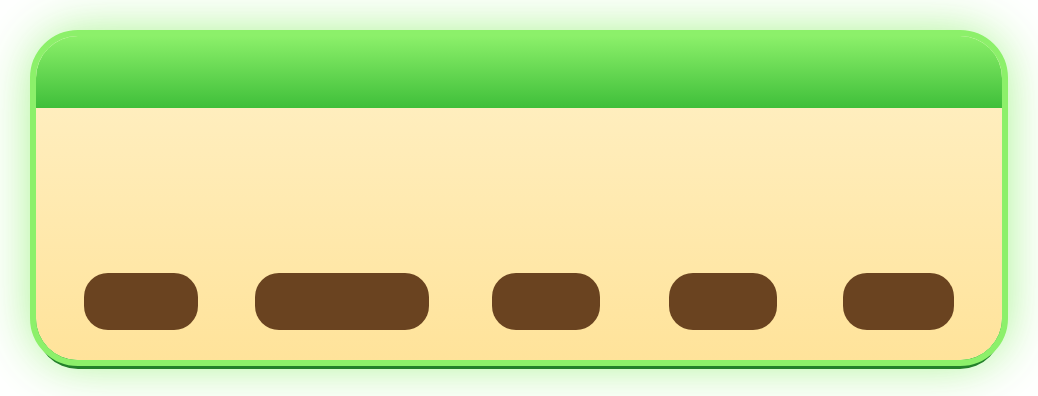
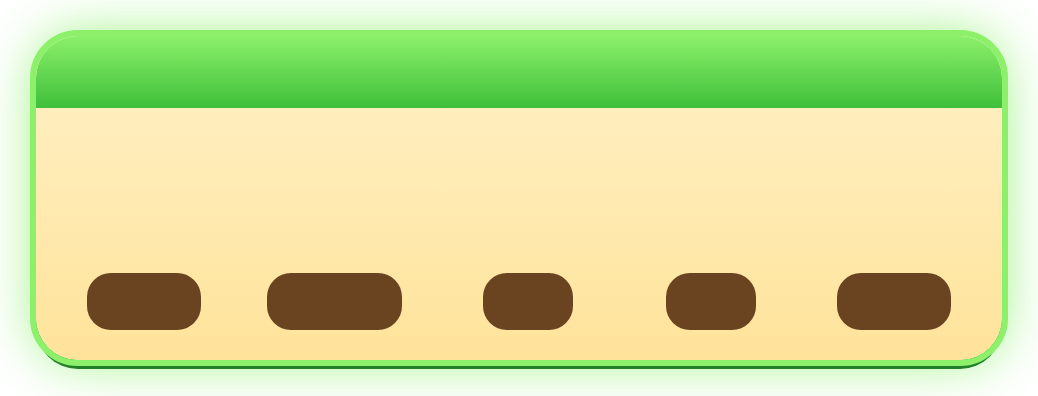
Tägliche Belohnung an die Wirtschaft angepasst, Version 0.6.1
Eine volle Woche bringt so viel Gold und Edelsteine wie die frühere
feste Tagesbelohnung (1.050 Gold, 70 Edelsteine mit Treue-Truhe), mit
Höhepunkt an Tag 7; Energie und Heldenkarten als kleiner Zusatz.
Mockup und Tageskarten mit den neuen Mengen neu übernommen.

Claude-Session: https://claude.ai/code/session_01NwX5XbY2Qvumx1eymUyNiA

diff --git a/tools/mock2game/cfg/taeglich.js b/tools/mock2game/cfg/taeglich.js
@@ -13,7 +13,7 @@ window.tbPrep = function (mode) {
   const todayT = kids.find(k => k.textContent.includes('HEUTE'));
   if (mode !== 'main' && lockedT && todayT) {
     const srcIcon = [kids[4], kids[5], todayT, kids[3], kids[4], kids[5]].map(iconOf);
-    const amounts = ['×300', '×10', '×20', '×6', '×1.000', '×20'];
+    const amounts = ['×150', '×5', '×10', '×5', '×300', '×10'];
     for (let i = 0; i < 6; i++) {
       const tpl = (mode === 'locked' ? lockedT : todayT).cloneNode(true);
       const ic = iconOf(tpl); if (ic && srcIcon[i]) ic.replaceWith(srcIcon[i].cloneNode(true));

diff --git a/scripts/economy-sim.py b/scripts/economy-sim.py
@@ -27,7 +27,7 @@ TECH = [100, 200, 350, 550, 800, 1100, 1500, 2000, 2600, 3300]
 AMMO = {"rate": (10, 80), "cap": (10, 60), "start": (10, 50), "lever": (5, 150), "count": (3, 500), "gate": (2, 1200)}
 BOOSTER_COST = lambda lvl: 200 * lvl
 BOOSTER_MAX = 5
-DAILY_GOLD = 150 + 100               # tägliche Belohnung + Gratis-Angebot im Shop
+DAILY_GOLD = 150 + 100               # Tagesbelohnung (7-Tage-Kalender: 1.050 Gold je Woche) + Gratis-Angebot im Shop
 WHEEL_GOLD = 120                     # grober Mittelwert pro Dreh (1x täglich)
 PASS_GOLD_PER_DAY = 90               # grob: Missionen -> Pass-Stufen, davon Gold-Anteil
 
